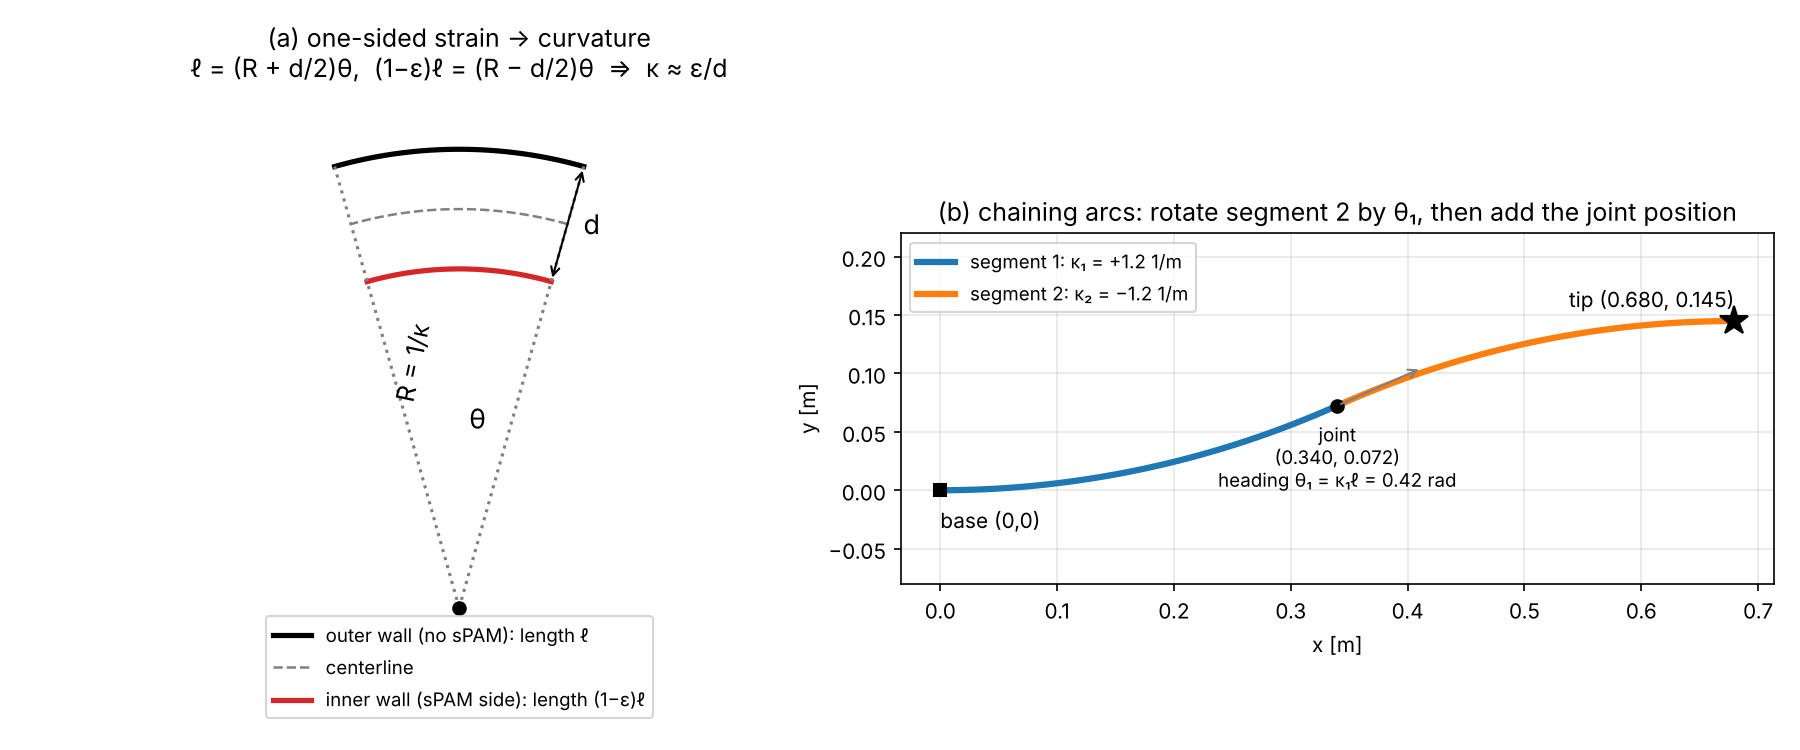
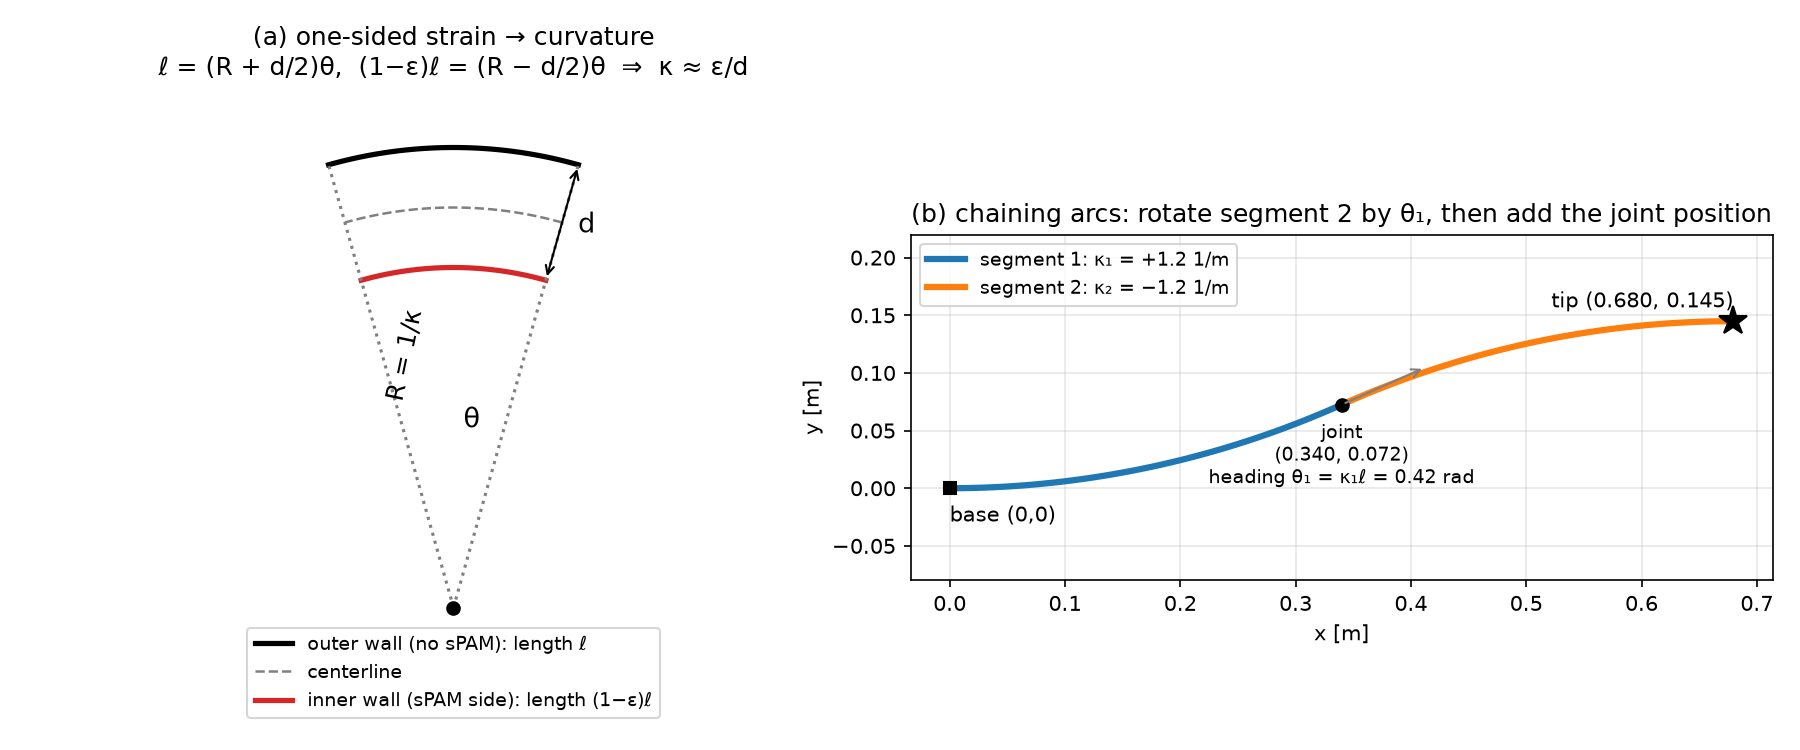
Centralize model parameters in src/params.py and regenerate figures

diff --git a/src/vine_baseline.py b/src/vine_baseline.py
@@ -1,6 +1,5 @@
 """
 Vine robot baseline model (P0 / pre-hardware)
-=============================================
 Two-segment planar vine on a table (gravity out of plane, so ignored).
 Each segment is bent by an sPAM, modeled as a rest curvature:
 
@@ -19,18 +18,13 @@ matplotlib.use("Agg")
 import matplotlib.pyplot as plt
 import elastica as ea
 from pathlib import Path
+from params import L, d, n_elem, EI_eff, density, SHAPE_CASES, TIP_LOADS
+# Rest curvature doesn't depend on EI in free bending, but contact/loads will.
 
 FIG = Path(__file__).resolve().parent.parent / "figures"
 FIG.mkdir(exist_ok=True)
 
-# ---------------------------------------------------------------- parameters
-L       = 0.70      # total grown length [m]  (B3 fixed-length body ~0.7 m)
-d       = 0.05      # body diameter [m]       (placeholder, set from your tube)
-n_elem  = 70        # elements (1 cm each)
-EI_eff  = 0.05      # effective bending stiffness [N m^2] PLACEHOLDER -> from B0
-# Rest curvature doesn't depend on EI in free bending, but contact/loads will.
-
-# ------------------------------------------------------- analytical PCC model
+# analytical PCC model
 def pcc_shape(kappas, seg_lengths, n=400):
     """Planar piecewise-constant-curvature centerline starting at origin, +x."""
     s_all = np.linspace(0, sum(seg_lengths), n)
@@ -47,7 +41,7 @@ def pcc_shape(kappas, seg_lengths, n=400):
         y[i] = y[i - 1] + np.sin(thm) * ds
     return x, y
 
-# ------------------------------------------------------- PyElastica model
+# PyElastica model
 class VineSim(ea.BaseSystemCollection, ea.Constraints, ea.Damping,
               ea.CallBacks, ea.Forcing):
     pass
@@ -68,7 +62,7 @@ def simulate(eps1, eps2, tip_force=0.0, final_time=20.0, n_elem=n_elem):
         normal=np.array([0.0, 0.0, 1.0]),           # d1 = z -> bends in x-y plane
         base_length=L,
         base_radius=r,
-        density=200.0,
+        density=density,
         youngs_modulus=E,
         shear_modulus=E / 1.5,
     )
@@ -108,12 +102,7 @@ def simulate(eps1, eps2, tip_force=0.0, final_time=20.0, n_elem=n_elem):
     return pos[0].copy(), pos[1].copy(), (kappa1, kappa2)
 
 # ------------------------------------------------------- cases
-cases = {
-    "Straight (no actuation)": (0.00, 0.00),
-    "C-shape (same side)":     (0.05, 0.05),
-    "S-shape (opposite)":      (0.06, -0.06),
-    "Tip-only bend":           (0.00, 0.08),
-}
+cases = SHAPE_CASES
 
 fig, axes = plt.subplots(2, 2, figsize=(11, 8))
 axes = axes.ravel()
@@ -141,7 +130,7 @@ plt.tight_layout()
 plt.savefig(FIG / "vine_shapes.png", dpi=150)
 
 # ------------------------------------------------------- tip load sweep (EI matters)
-loads = [0.0, 0.05, 0.1, 0.2]   # N
+loads = [0.0, *TIP_LOADS]   # N
 fig2, ax2 = plt.subplots(figsize=(6, 4.5))
 defl = []
 for F in loads:

diff --git a/src/hand_calcs.py b/src/hand_calcs.py
@@ -5,17 +5,15 @@ Every number in docs/hand_calculations.md comes from this script.
 Run:  python src/hand_calcs.py
 """
 import numpy as np
+from params import d, L, EI_eff as EI, EPS_SAMPLES, SHAPE_CASES, TIP_LOADS, p_body, t_wall
 
-d   = 0.05    # body diameter [m]
 r   = d / 2
-L   = 0.70    # total length [m]
 ell = L / 2   # length of each segment [m]
-EI  = 0.05    # effective bending stiffness [N m^2] (placeholder until B0)
 
 print("=" * 64)
 print("1. Curvature from sPAM strain:  kappa = eps / d")
 print("=" * 64)
-for eps in (0.05, 0.06, 0.08):
+for eps in EPS_SAMPLES:
     k = eps / d
     print(f"  eps = {eps:.2f}  ->  kappa = {eps:.2f} / {d} = {k:.2f} 1/m"
           f"   (radius R = 1/kappa = {1/k:.3f} m)")
@@ -56,15 +54,12 @@ print()
 print("=" * 64)
 print("2. Two-segment piecewise-constant-curvature (PCC) tip positions")
 print("=" * 64)
-cases = {
-    "C-shape (eps1=eps2=+0.05)":   (1.0, 1.0),
-    "S-shape (eps1=+0.06, eps2=-0.06)": (1.2, -1.2),
-    "Tip-only (eps2=+0.08)":       (0.0, 1.6),
-}
 hand = {}
-for name, (k1, k2) in cases.items():
-    print(f"\n{name}")
-    hand[name] = two_segment(k1, k2)
+for name, (e1, e2) in SHAPE_CASES.items():
+    if e1 == e2 == 0:
+        continue
+    print(f"\n{name} (eps1={e1:+.2f}, eps2={e2:+.2f})")
+    hand[name] = two_segment(e1 / d, e2 / d)
 
 print()
 print("=" * 64)
@@ -84,7 +79,7 @@ print("=" * 64)
 print("4. Cantilever tip deflection (B0 test), small-deflection theory")
 print("=" * 64)
 print(f"  delta = F L^3 / (3 EI),  L^3 = {L**3:.3f} m^3,  3EI = {3*EI:.2f} N m^2")
-for F in (0.05, 0.10, 0.20):
+for F in TIP_LOADS:
     dl = F * L**3 / (3 * EI)
     print(f"  F = {F:.2f} N -> delta = {F}*{L**3:.3f}/{3*EI:.2f} = {dl*1000:.1f} mm"
           f"   (delta/L = {dl/L:.2f})")
@@ -94,8 +89,7 @@ print()
 print("=" * 64)
 print("5. Wall stresses at a sample body pressure (sanity check)")
 print("=" * 64)
-p = 7e3      # 7 kPa, a typical vine robot body pressure
-tw = 0.1e-3  # 0.1 mm film
+p, tw = p_body, t_wall
 print(f"  p = {p/1e3:.0f} kPa, r = {r} m, t = {tw*1e3} mm")
 print(f"  hoop  sigma = p r / t     = {p*r/tw/1e6:.2f} MPa")
 print(f"  axial sigma = p r / (2 t) = {p*r/(2*tw)/1e6:.2f} MPa")

diff --git a/src/params.py b/src/params.py
@@ -1,0 +1,35 @@
+"""
+Single source of truth for every model parameter.
+Change a value here, then rerun the scripts; nothing else should need editing.
+
+Values marked PLACEHOLDER are guesses until the bench tests replace them.
+"""
+
+# ---------------------------------------------------------------- geometry
+d = 0.05            # body diameter [m]                     PLACEHOLDER -> your tube
+L = 0.70            # total grown length [m], two equal segments (B3 body)
+
+# ---------------------------------------------------------------- material
+EI_eff = 0.05       # effective bending stiffness [N m^2]   PLACEHOLDER -> B0
+density = 200.0     # rod density for PyElastica [kg/m^3]   (only affects settling time)
+
+# ---------------------------------------------------------------- sPAM strains
+EPS_SAMPLES = (0.05, 0.06, 0.08)   # strains used in examples  PLACEHOLDER -> B2
+
+# Shape cases: (eps1, eps2) on segment 1 (base) and 2 (tip). Sign = side.
+SHAPE_CASES = {
+    "Straight (no actuation)": (0.00, 0.00),
+    "C-shape (same side)":     (0.05, 0.05),
+    "S-shape (opposite)":      (0.06, -0.06),
+    "Tip-only bend":           (0.00, 0.08),
+}
+
+# ---------------------------------------------------------------- B0 cantilever test
+TIP_LOADS = (0.05, 0.10, 0.20)     # tip forces [N]; keep delta/L < ~0.1 for linear fit
+
+# ---------------------------------------------------------------- wall (sanity checks)
+p_body = 7e3        # body pressure [Pa]
+t_wall = 0.1e-3     # film thickness [m]
+
+# ---------------------------------------------------------------- simulation
+n_elem = 70         # PyElastica elements (1 cm each at L = 0.7 m)

diff --git a/src/large_deflection_check.py b/src/large_deflection_check.py
@@ -2,7 +2,10 @@
 EI*theta'' = -F*cos(theta), theta(0)=0, theta'(L)=0. Independent check of PyElastica."""
 import numpy as np
 from scipy.integrate import solve_bvp, cumulative_trapezoid
-L, EI = 0.70, 0.05
+from params import L, EI_eff as EI, TIP_LOADS
+# PyElastica tip deflections [mm] from figures/results.txt, one per TIP_LOADS entry.
+# Copy them in again after rerunning vine_baseline.py with new parameters.
+PYELASTICA_MM = (109.2, 204.1, 336.8)
 def tip_deflection(F):
     f = lambda s, y: np.vstack([y[1], -F/EI*np.cos(y[0])])
     bc = lambda a, b: np.array([a[0], b[1]])
@@ -11,6 +14,6 @@ def tip_deflection(F):
     th = sol.sol(s)[0]
     return abs(cumulative_trapezoid(np.sin(th), s, initial=0)[-1])  # magnitude
 if __name__ == "__main__":
-    for F, sim in [(0.05, 109.2), (0.10, 204.1), (0.20, 336.8)]:
+    for F, sim in zip(TIP_LOADS, PYELASTICA_MM):
         d = tip_deflection(F)*1000
         print(f"F={F:.2f} N  elastica={d:6.1f} mm  PyElastica={sim:6.1f} mm  diff={abs(sim-d)/d*100:4.1f}%")

diff --git a/README.md b/README.md
@@ -10,6 +10,7 @@ This repo is the **modeling side** of the project, built before any hardware exi
 
 | Path | What it does |
 |---|---|
+| `src/params.py` | **Every model parameter in one place.** Edit here, then rerun the scripts |
 | `src/vine_baseline.py` | PyElastica (Cosserat rod) model of the vine: C-, S- and tip-only shapes, a tip-load sweep, and a mesh-convergence check |
 | `src/hand_calcs.py` | The analytical models, printed step by step |
 | `src/large_deflection_check.py` | Large-deflection beam solution (SciPy) used to validate PyElastica |
@@ -39,6 +40,8 @@ Each sPAM shortens one side of its segment by a strain ε, which bends the segme
 | Tip load vs. large-deflection beam theory | within 2% |
 
 ## Placeholders to replace with measurements
+
+All of these live in `src/params.py`. After changing them, rerun `vine_baseline.py` and copy its tip-load deflections into `PYELASTICA_MM` in `large_deflection_check.py`.
 
 | Parameter | Current | Replace using |
 |---|---|---|
